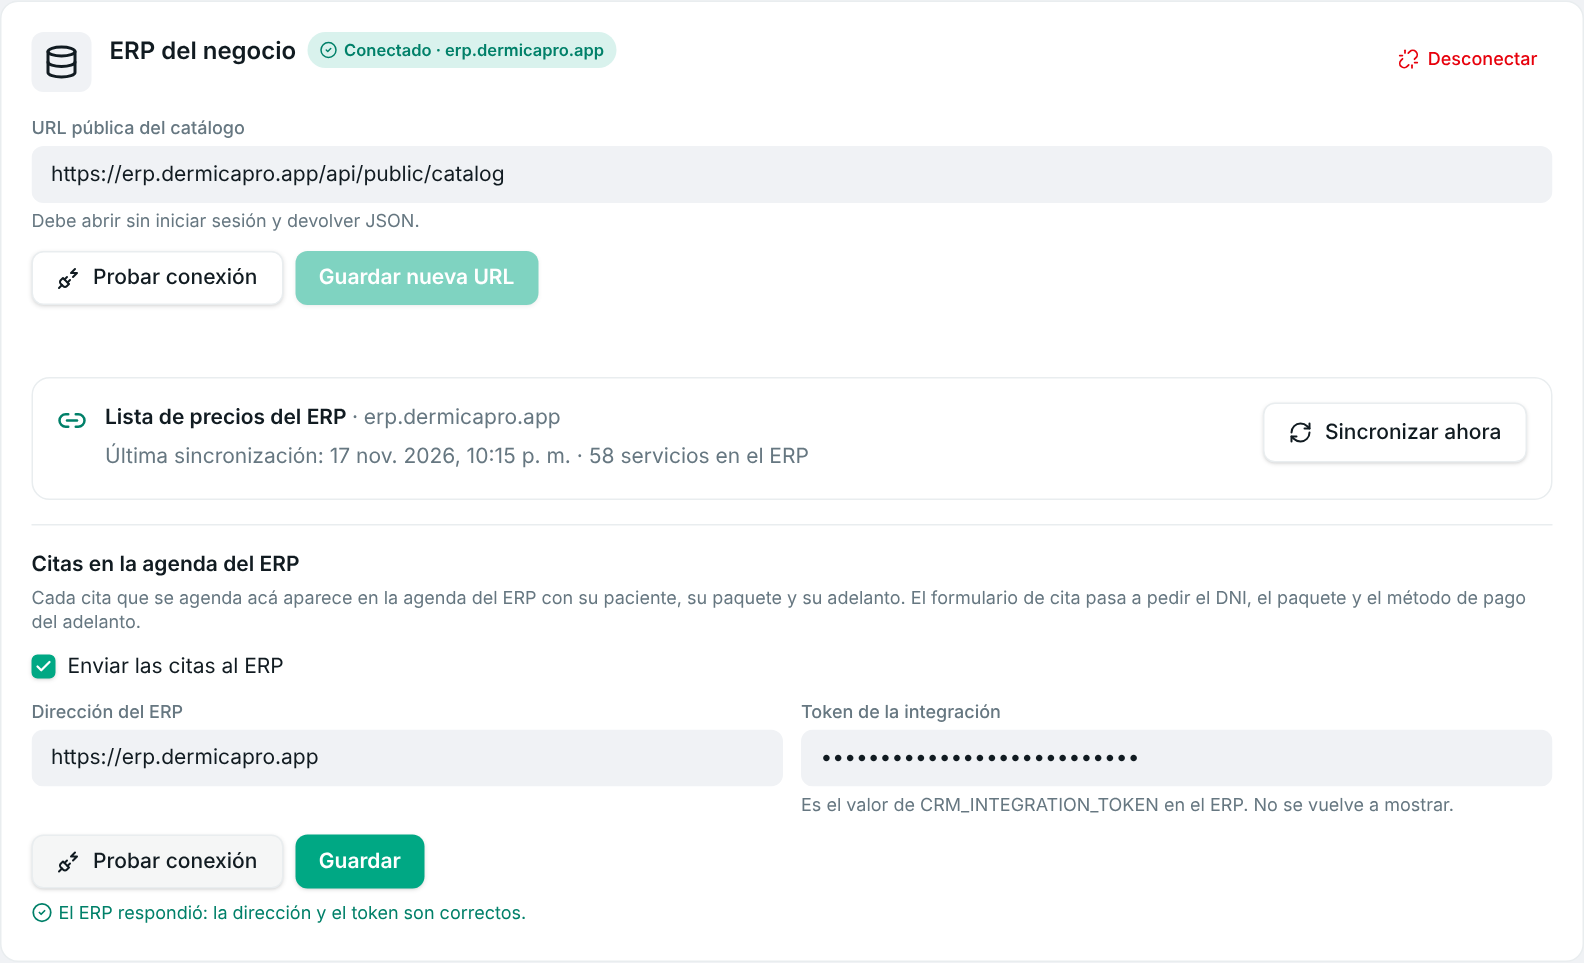
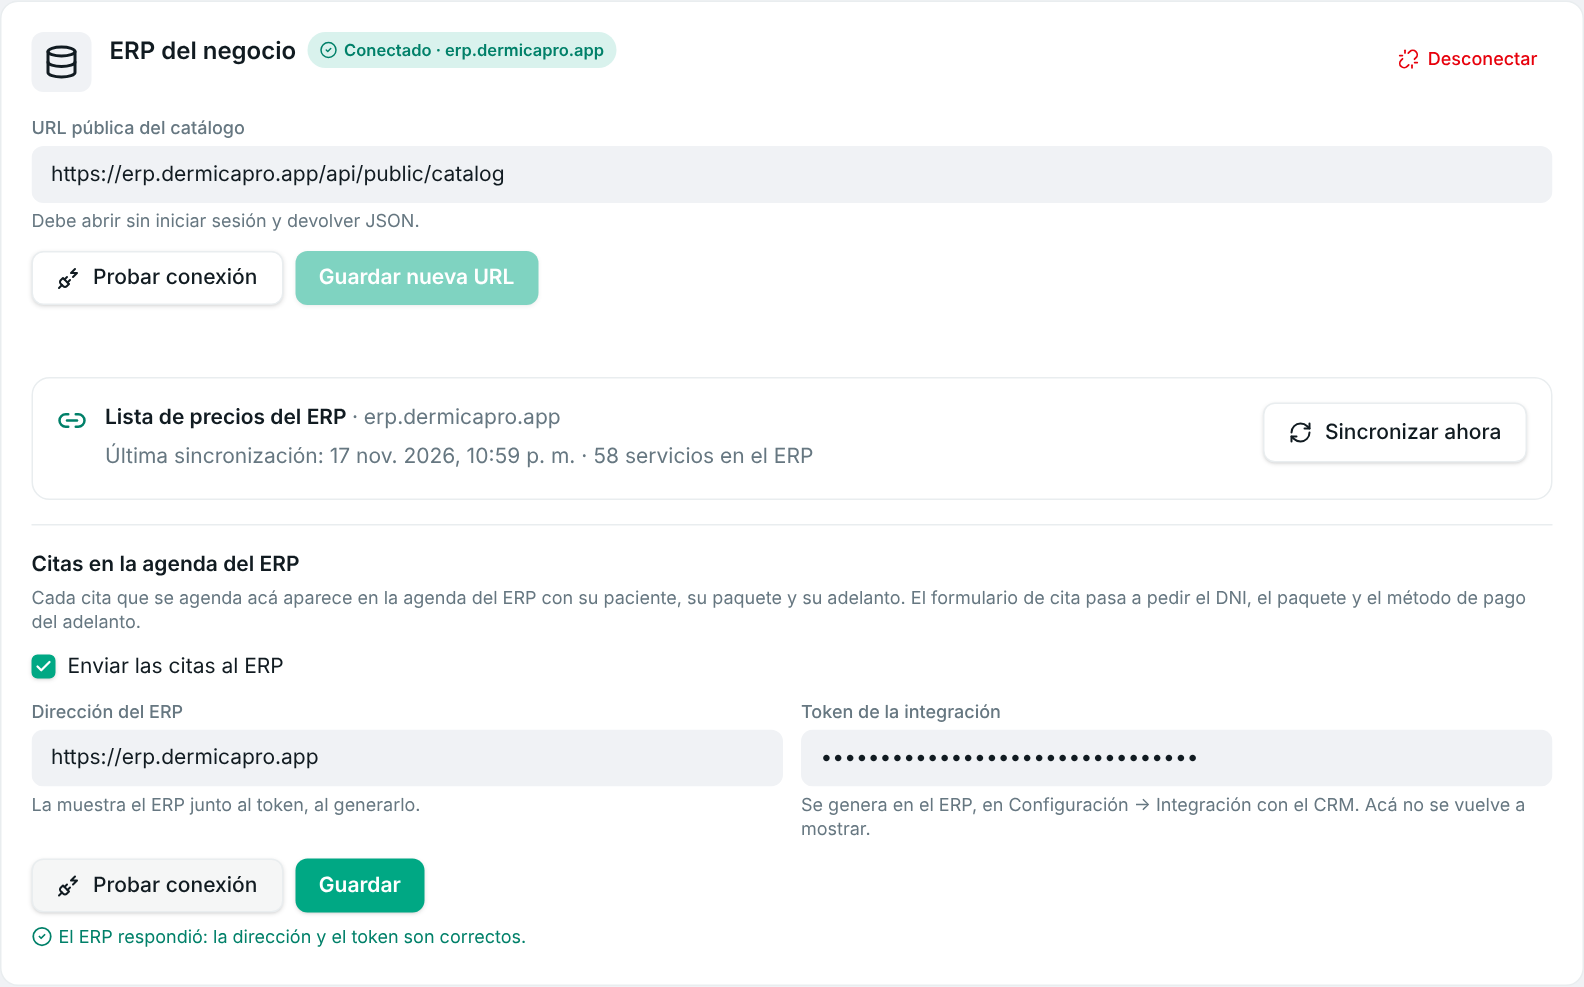
fix: Integraciones dice dónde se genera el token del ERP
La ayuda nombraba una variable de entorno del servidor; ahora el token se
genera en el ERP, en Configuración → Integración con el CRM, que muestra
también la dirección a pegar. Se actualiza la captura.

Claude-Session: https://claude.ai/code/session_01ByMkaoTS6Z99gUoM3AbJ68

diff --git a/frontend/src/features/appointments/components/ErpAppointmentsSection.tsx b/frontend/src/features/appointments/components/ErpAppointmentsSection.tsx
@@ -38,12 +38,13 @@ export function ErpAppointmentsSection() {
 }
 
 function ConnectionFields({ form }: { form: ErpAppointmentsForm }) {
-  const tokenPlaceholder = form.tokenConfigured ? 'Guardado · escribe para cambiarlo' : 'El mismo que se configuró en el ERP'
+  const tokenPlaceholder = form.tokenConfigured ? 'Guardado · escribe para cambiarlo' : 'Pega el que generaste en el ERP'
   return (
     <div className="mt-3 grid gap-3 sm:grid-cols-2">
       <div>
         <label htmlFor="erp-appointments-url" className={labelClass}>Dirección del ERP</label>
-        <Input id="erp-appointments-url" type="url" inputMode="url" value={form.draft.url} onChange={event => form.setUrl(event.target.value)} placeholder="https://mi-erp.com" />
+        <Input id="erp-appointments-url" type="url" inputMode="url" value={form.draft.url} onChange={event => form.setUrl(event.target.value)} placeholder="https://mi-erp.com" aria-describedby="erp-appointments-url-hint" />
+        <p id="erp-appointments-url-hint" className={`mt-1 ${mutedClass}`}>La muestra el ERP junto al token, al generarlo.</p>
       </div>
       <div>
         <label htmlFor="erp-appointments-token" className={labelClass}>Token de la integración</label>
@@ -53,7 +54,7 @@ function ConnectionFields({ form }: { form: ErpAppointmentsForm }) {
           aria-describedby="erp-appointments-token-hint"
         />
         <p id="erp-appointments-token-hint" className={`mt-1 ${mutedClass}`}>
-          Es el valor de CRM_INTEGRATION_TOKEN en el ERP. No se vuelve a mostrar.
+          Se genera en el ERP, en Configuración → Integración con el CRM. Acá no se vuelve a mostrar.
         </p>
       </div>
     </div>
